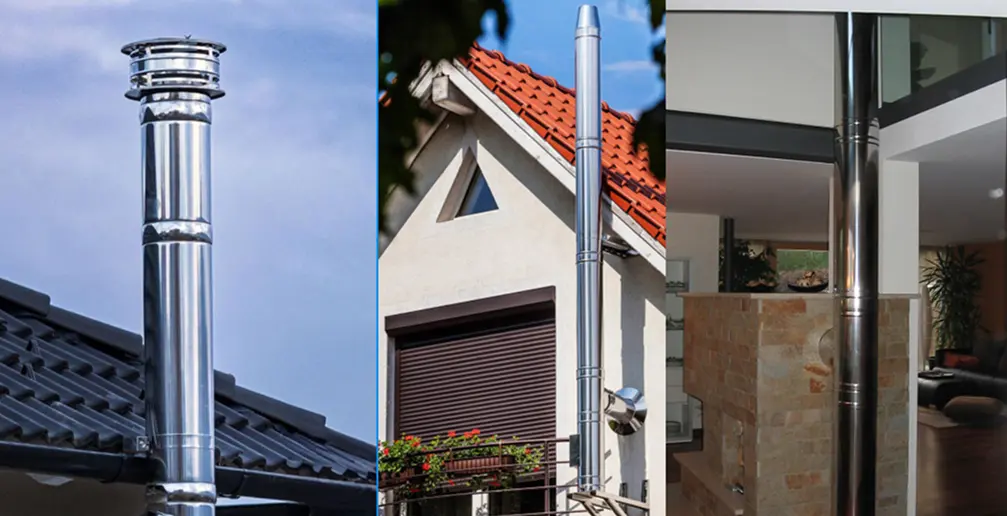
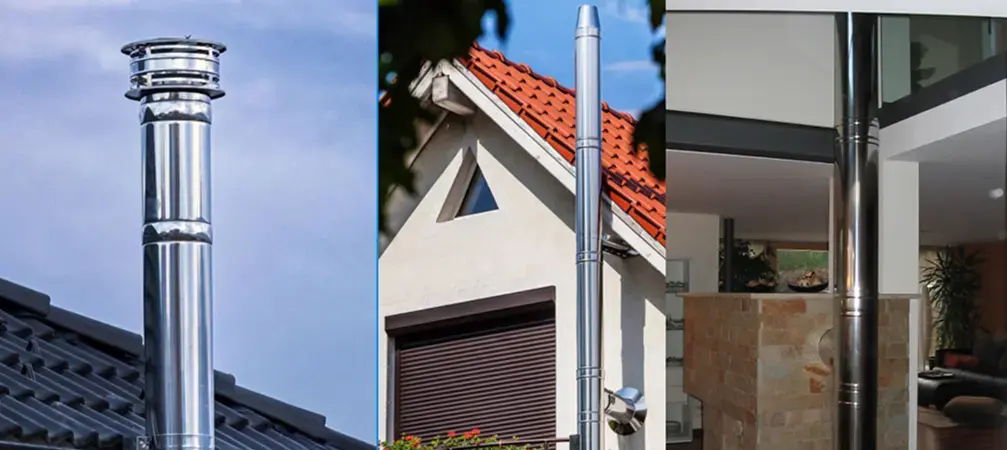
Addn

diff --git a/resources/views/blog/basalt-wool.blade.php b/resources/views/blog/basalt-wool.blade.php
@@ -56,7 +56,7 @@
             <img src="{{ asset('images/chimney/basalt-wool.webp') }}"
      alt="Базальтова вата для сендвіч-димоходів"
      class="img-fluid w-100"
-     style="height: 600px; object-fit: cover;">
+    >
 
         </div>
 
